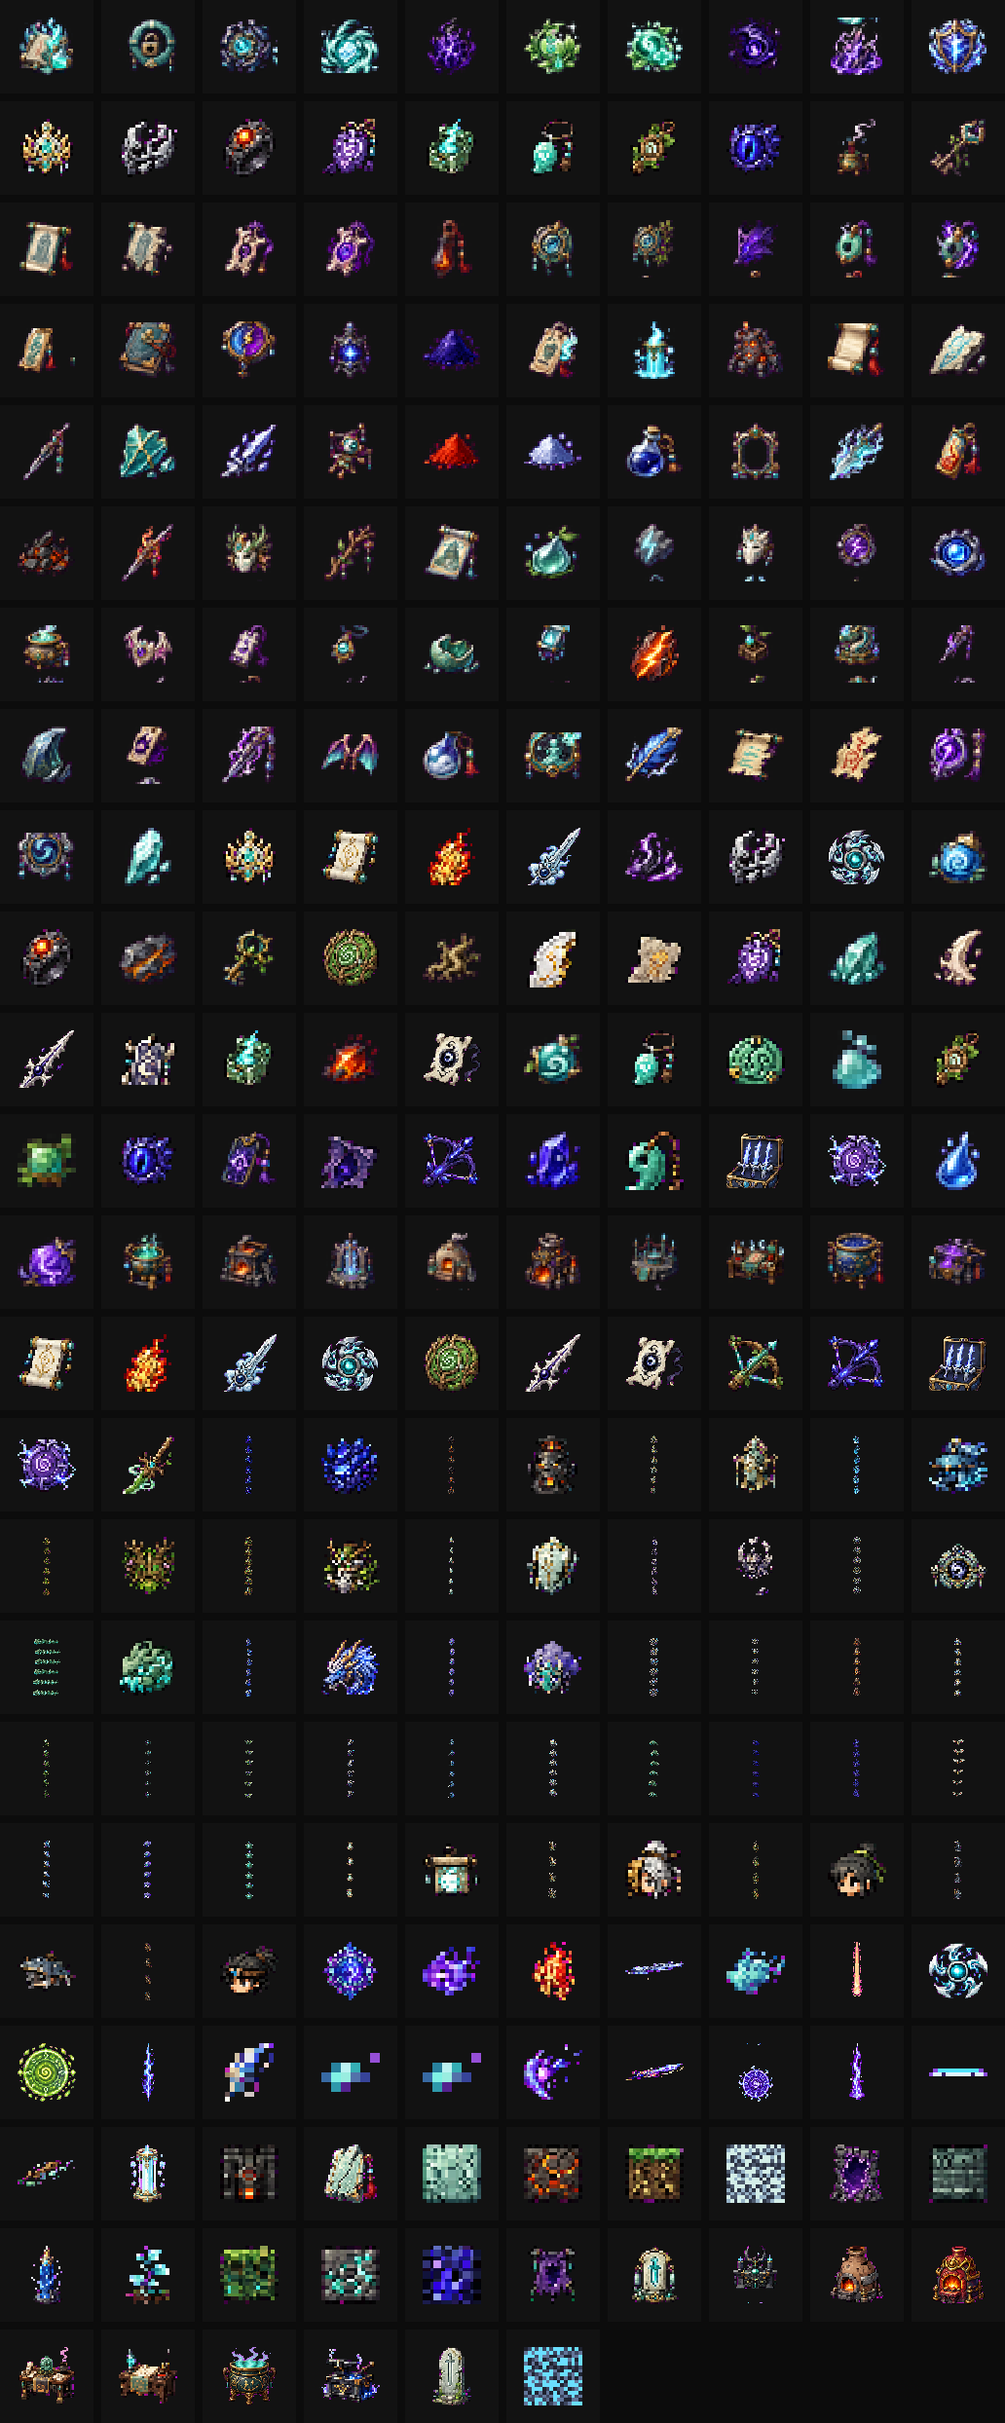
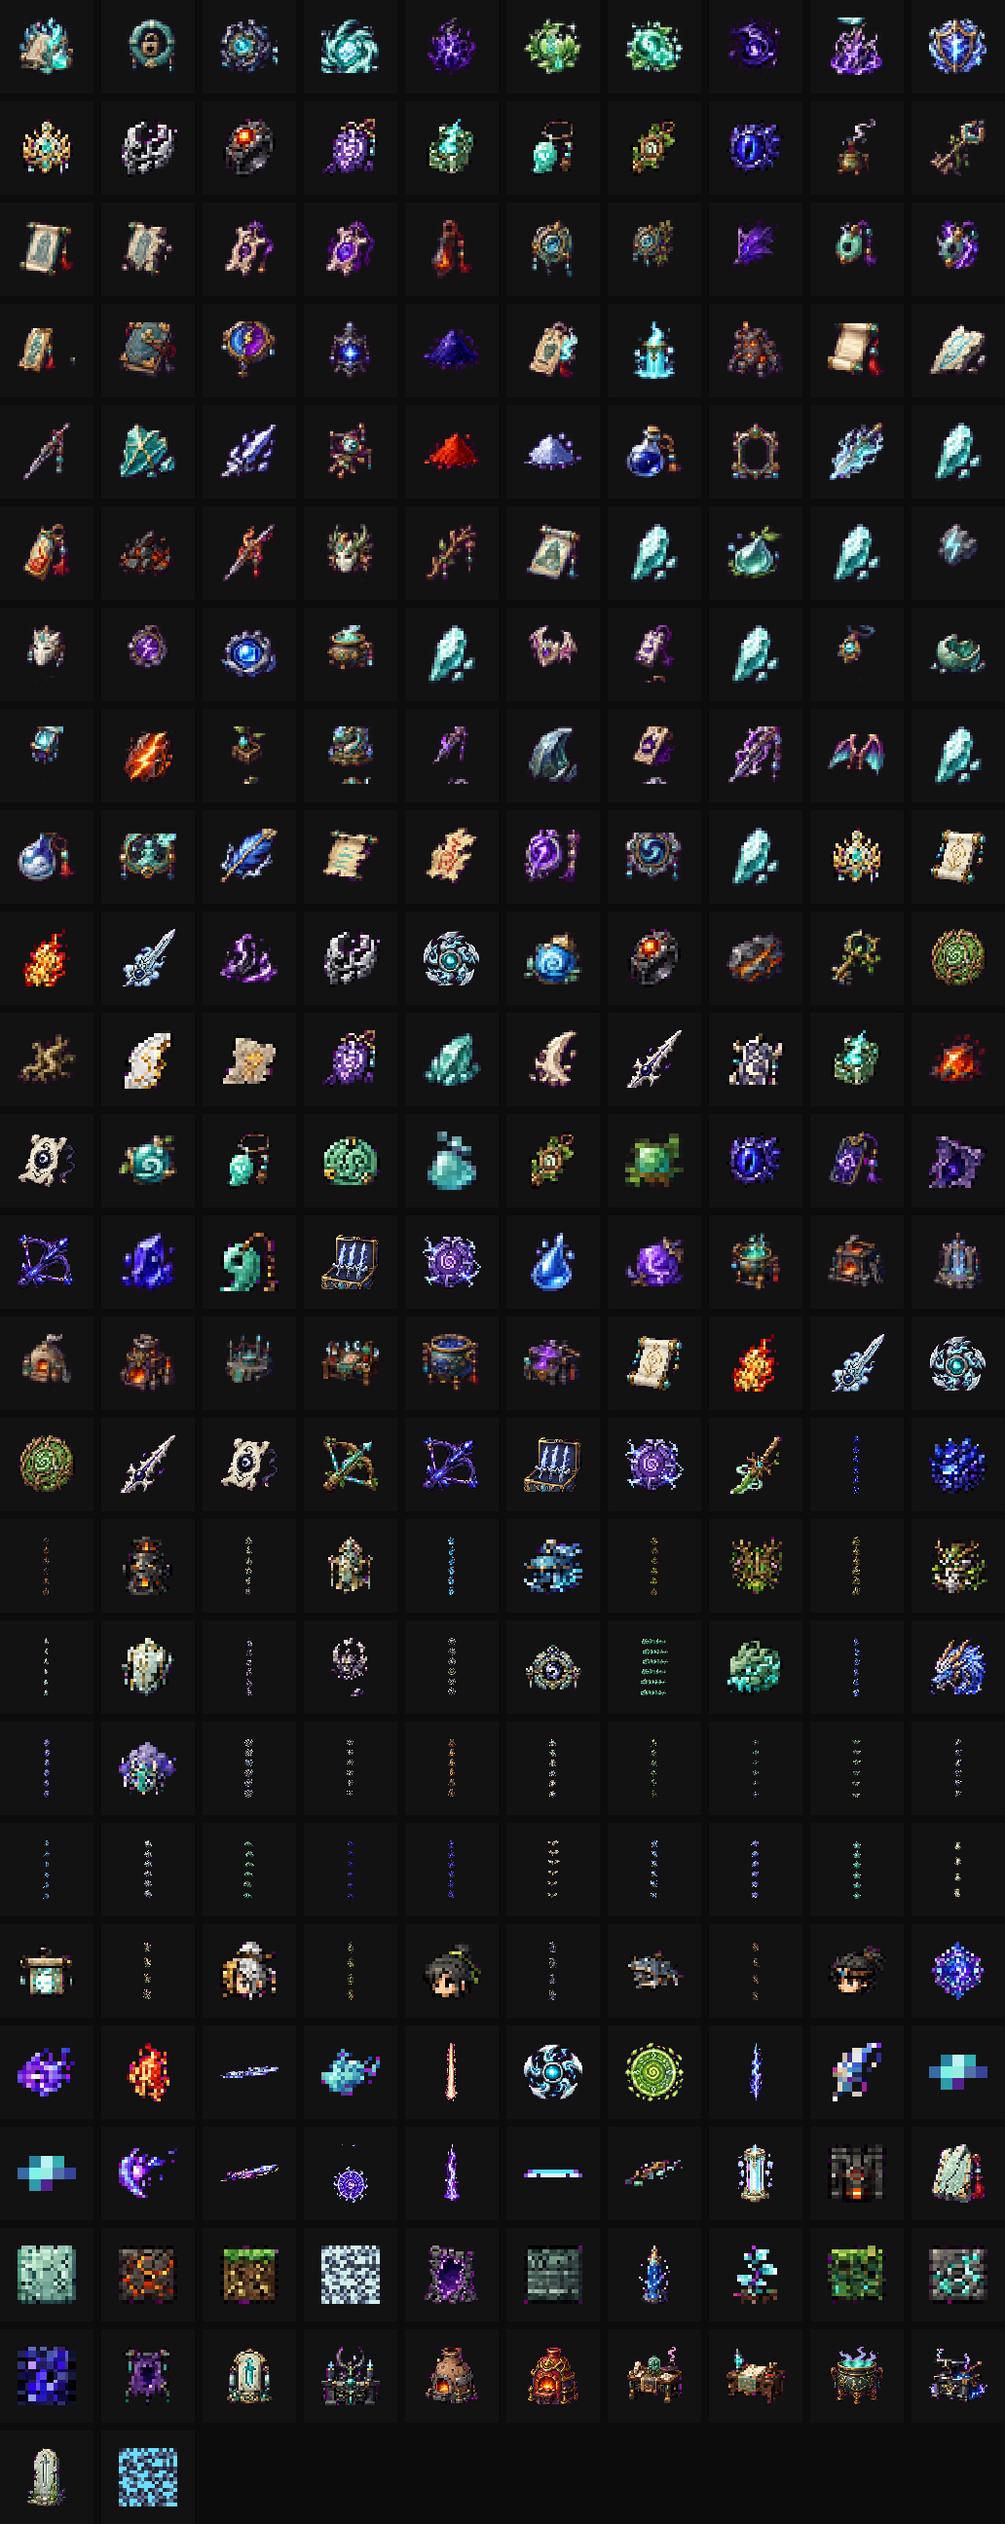
Remove cross-cell art fragments

diff --git a/Tools/verify_art_quality.py b/Tools/verify_art_quality.py
@@ -1,6 +1,7 @@
 from __future__ import annotations
 
 from pathlib import Path
+from collections import deque
 
 from PIL import Image
 
@@ -78,6 +79,56 @@ def nontransparent_colors(image: Image.Image) -> int:
     return len(colors)
 
 
+def alpha_components(image: Image.Image, threshold: int = 24) -> list[dict[str, object]]:
+    alpha = image.convert("RGBA").getchannel("A")
+    width, height = alpha.size
+    pixels = alpha.load()
+    seen: set[tuple[int, int]] = set()
+    components: list[dict[str, object]] = []
+    for y in range(height):
+        for x in range(width):
+            if pixels[x, y] <= threshold or (x, y) in seen:
+                continue
+            queue: deque[tuple[int, int]] = deque([(x, y)])
+            seen.add((x, y))
+            points: list[tuple[int, int]] = []
+            while queue:
+                current_x, current_y = queue.popleft()
+                points.append((current_x, current_y))
+                for next_x in range(current_x - 1, current_x + 2):
+                    for next_y in range(current_y - 1, current_y + 2):
+                        if next_x < 0 or next_y < 0 or next_x >= width or next_y >= height:
+                            continue
+                        if (next_x, next_y) in seen or pixels[next_x, next_y] <= threshold:
+                            continue
+                        seen.add((next_x, next_y))
+                        queue.append((next_x, next_y))
+            xs = [point[0] for point in points]
+            ys = [point[1] for point in points]
+            components.append({"pixels": len(points), "bbox": (min(xs), min(ys), max(xs) + 1, max(ys) + 1)})
+    return sorted(components, key=lambda component: int(component["pixels"]), reverse=True)
+
+
+def suspect_stray_components(image: Image.Image) -> list[dict[str, object]]:
+    components = alpha_components(image)
+    if len(components) <= 1:
+        return []
+    main_pixels = int(components[0]["pixels"])
+    width, height = image.size
+    suspects: list[dict[str, object]] = []
+    for component in components[1:]:
+        left, top, right, bottom = component["bbox"]  # type: ignore[misc]
+        box_width = right - left
+        box_height = bottom - top
+        pixels = int(component["pixels"])
+        near_top_or_bottom = top <= 3 or height - bottom <= 3
+        tiny_relative_to_main = pixels <= max(12, main_pixels * 0.08)
+        sliver_like = box_width <= 12 and box_height <= 4
+        if near_top_or_bottom and tiny_relative_to_main and sliver_like:
+            suspects.append(component)
+    return suspects
+
+
 def assert_safe_edges(path: Path, image: Image.Image, failures: list[str]) -> None:
     item = rel(path)
     margin = required_margin(path, image)
@@ -112,6 +163,15 @@ def assert_color_depth(path: Path, image: Image.Image, failures: list[str]) -> N
         failures.append(f"{item}: too few visible colors ({count} < {minimum}); likely placeholder-like")
 
 
+def assert_no_stray_components(path: Path, image: Image.Image, failures: list[str]) -> None:
+    item = rel(path)
+    if item in TILEABLE_PREFIXES:
+        return
+    suspects = suspect_stray_components(image)
+    if suspects:
+        failures.append(f"{item}: suspected cross-cell fragments: {suspects}")
+
+
 def main() -> None:
     failures: list[str] = []
     checked = 0
@@ -120,6 +180,7 @@ def main() -> None:
         checked += 1
         assert_safe_edges(path, image, failures)
         assert_color_depth(path, image, failures)
+        assert_no_stray_components(path, image, failures)
     if failures:
         print("Art quality verification failed:")
         for failure in failures:

diff --git a/Tools/clean_art_fragments.py b/Tools/clean_art_fragments.py
@@ -1,0 +1,48 @@
+from __future__ import annotations
+
+from pathlib import Path
+
+from PIL import Image
+
+from verify_art_quality import ROOT, alpha_components, png_paths, rel, suspect_stray_components
+
+
+def erase_component(image: Image.Image, bbox: tuple[int, int, int, int]) -> None:
+    pixels = image.load()
+    left, top, right, bottom = bbox
+    for y in range(top, bottom):
+        for x in range(left, right):
+            pixels[x, y] = (0, 0, 0, 0)
+
+
+def clean_file(path: Path) -> int:
+    image = Image.open(path).convert("RGBA")
+    suspects = suspect_stray_components(image)
+    if not suspects:
+        return 0
+    components = alpha_components(image)
+    removed = 0
+    for suspect in suspects:
+        bbox = suspect["bbox"]
+        if bbox == components[0]["bbox"]:
+            continue
+        erase_component(image, bbox)  # type: ignore[arg-type]
+        removed += 1
+    if removed:
+        image.save(path)
+    return removed
+
+
+def main() -> None:
+    cleaned: list[tuple[str, int]] = []
+    for path in png_paths():
+        removed = clean_file(path)
+        if removed:
+            cleaned.append((rel(path), removed))
+    print({"cleaned_files": len(cleaned), "removed_components": sum(count for _, count in cleaned)})
+    for item, count in cleaned:
+        print(f"{item}: {count}")
+
+
+if __name__ == "__main__":
+    main()

diff --git a/Wiki/Art_Gallery.md b/Wiki/Art_Gallery.md
@@ -292,20 +292,25 @@
 | <img src="../Content/Items/HandGenerated/DarkBlueSpiritFluid.png" alt="Dark Blue Spirit Fluid" width="48"> | Dark Blue Spirit Fluid | `item icon` | 32x32 | - | 暗蓝灵液：星渊流体材料，深蓝瓶滴与冷白高光。 | `Content/Items/HandGenerated/DarkBlueSpiritFluid.png` |
 | <img src="../Content/Items/HandGenerated/EndgameRouteFrame.png" alt="Endgame Route Frame" width="48"> | Endgame Route Frame | `item icon` | 32x32 | - | Hand Generated Item 资源：透明背景、强轮廓、有限色板，遵循 ART_ASSET_GENERATION_PLAN.md。 | `Content/Items/HandGenerated/EndgameRouteFrame.png` |
 | <img src="../Content/Items/HandGenerated/FormlessSwordSoulCostume.png" alt="Formless Sword Soul Costume" width="48"> | Formless Sword Soul Costume | `item icon` | 32x32 | - | Hand Generated Item 资源：透明背景、强轮廓、有限色板，遵循 ART_ASSET_GENERATION_PLAN.md。 | `Content/Items/HandGenerated/FormlessSwordSoulCostume.png` |
+| <img src="../Content/Items/HandGenerated/FoundationSeal.png" alt="Foundation Seal" width="48"> | Foundation Seal | `item icon` | 24x24 | - | Hand Generated Item 资源：透明背景、强轮廓、有限色板，遵循 ART_ASSET_GENERATION_PLAN.md。 | `Content/Items/HandGenerated/FoundationSeal.png` |
 | <img src="../Content/Items/HandGenerated/FurnaceAshSpiritContract.png" alt="Furnace Ash Spirit Contract" width="48"> | Furnace Ash Spirit Contract | `item icon` | 32x32 | - | Hand Generated Item 资源：透明背景、强轮廓、有限色板，遵循 ART_ASSET_GENERATION_PLAN.md。 | `Content/Items/HandGenerated/FurnaceAshSpiritContract.png` |
 | <img src="../Content/Items/HandGenerated/FurnaceCharcoal.png" alt="Furnace Charcoal" width="48"> | Furnace Charcoal | `item icon` | 32x32 | - | 炉炭：沉炉矿脉余烬材料，黑灰炭块带暗红火点。 | `Content/Items/HandGenerated/FurnaceCharcoal.png` |
 | <img src="../Content/Items/HandGenerated/FurnaceInscriptionNeedle.png" alt="Furnace Inscription Needle" width="48"> | Furnace Inscription Needle | `item icon` | 32x32 | - | Hand Generated Item 资源：透明背景、强轮廓、有限色板，遵循 ART_ASSET_GENERATION_PLAN.md。 | `Content/Items/HandGenerated/FurnaceInscriptionNeedle.png` |
 | <img src="../Content/Items/HandGenerated/GardenWardenMask.png" alt="Garden Warden Mask" width="48"> | Garden Warden Mask | `item icon` | 32x32 | - | Hand Generated Item 资源：透明背景、强轮廓、有限色板，遵循 ART_ASSET_GENERATION_PLAN.md。 | `Content/Items/HandGenerated/GardenWardenMask.png` |
 | <img src="../Content/Items/HandGenerated/GreenwoodInscriptionNeedle.png" alt="Greenwood Inscription Needle" width="48"> | Greenwood Inscription Needle | `item icon` | 32x32 | - | Hand Generated Item 资源：透明背景、强轮廓、有限色板，遵循 ART_ASSET_GENERATION_PLAN.md。 | `Content/Items/HandGenerated/GreenwoodInscriptionNeedle.png` |
 | <img src="../Content/Items/HandGenerated/HeavenDaoRouteHint.png" alt="Heaven Dao Route Hint" width="48"> | Heaven Dao Route Hint | `item icon` | 32x32 | - | Hand Generated Item 资源：透明背景、强轮廓、有限色板，遵循 ART_ASSET_GENERATION_PLAN.md。 | `Content/Items/HandGenerated/HeavenDaoRouteHint.png` |
+| <img src="../Content/Items/HandGenerated/HeavenTabletSeal.png" alt="Heaven Tablet Seal" width="48"> | Heaven Tablet Seal | `item icon` | 24x24 | - | Hand Generated Item 资源：透明背景、强轮廓、有限色板，遵循 ART_ASSET_GENERATION_PLAN.md。 | `Content/Items/HandGenerated/HeavenTabletSeal.png` |
 | <img src="../Content/Items/HandGenerated/HerbDew.png" alt="Herb Dew" width="48"> | Herb Dew | `item icon` | 32x32 | - | 药露：药园生机凝露，青绿水滴与草木高光。 | `Content/Items/HandGenerated/HerbDew.png` |
+| <img src="../Content/Items/HandGenerated/ImperialDecreeItem.png" alt="Imperial Decree Item" width="48"> | Imperial Decree Item | `item icon` | 24x24 | - | Hand Generated Item 资源：透明背景、强轮廓、有限色板，遵循 ART_ASSET_GENERATION_PLAN.md。 | `Content/Items/HandGenerated/ImperialDecreeItem.png` |
 | <img src="../Content/Items/HandGenerated/InscriptionRemovalStone.png" alt="Inscription Removal Stone" width="48"> | Inscription Removal Stone | `item icon` | 32x32 | - | Hand Generated Item 资源：透明背景、强轮廓、有限色板，遵循 ART_ASSET_GENERATION_PLAN.md。 | `Content/Items/HandGenerated/InscriptionRemovalStone.png` |
 | <img src="../Content/Items/HandGenerated/InspectorMask.png" alt="Inspector Mask" width="48"> | Inspector Mask | `item icon` | 32x32 | - | Hand Generated Item 资源：透明背景、强轮廓、有限色板，遵循 ART_ASSET_GENERATION_PLAN.md。 | `Content/Items/HandGenerated/InspectorMask.png` |
 | <img src="../Content/Items/HandGenerated/LightningAvoidanceRune.png" alt="Lightning Avoidance Rune" width="48"> | Lightning Avoidance Rune | `item icon` | 32x32 | - | Hand Generated Item 资源：透明背景、强轮廓、有限色板，遵循 ART_ASSET_GENERATION_PLAN.md。 | `Content/Items/HandGenerated/LightningAvoidanceRune.png` |
 | <img src="../Content/Items/HandGenerated/LowGradeSpiritCore.png" alt="Low Grade Spirit Core" width="48"> | Low Grade Spirit Core | `item icon` | 32x32 | - | 低阶灵核：灵脉早期核心，青玉内光。 | `Content/Items/HandGenerated/LowGradeSpiritCore.png` |
 | <img src="../Content/Items/HandGenerated/MedicineKingCauldronDecoration.png" alt="Medicine King Cauldron Decoration" width="48"> | Medicine King Cauldron Decoration | `item icon` | 32x32 | - | Hand Generated Item 资源：透明背景、强轮廓、有限色板，遵循 ART_ASSET_GENERATION_PLAN.md。 | `Content/Items/HandGenerated/MedicineKingCauldronDecoration.png` |
+| <img src="../Content/Items/HandGenerated/MedicineKingWoodHeart.png" alt="Medicine King Wood Heart" width="48"> | Medicine King Wood Heart | `item icon` | 24x24 | - | Hand Generated Item 资源：透明背景、强轮廓、有限色板，遵循 ART_ASSET_GENERATION_PLAN.md。 | `Content/Items/HandGenerated/MedicineKingWoodHeart.png` |
 | <img src="../Content/Items/HandGenerated/MoonboneImmortalWingAccessory.png" alt="Moonbone Immortal Wing Accessory" width="48"> | Moonbone Immortal Wing Accessory | `item icon` | 32x32 | - | Hand Generated Item 资源：透明背景、强轮廓、有限色板，遵循 ART_ASSET_GENERATION_PLAN.md。 | `Content/Items/HandGenerated/MoonboneImmortalWingAccessory.png` |
 | <img src="../Content/Items/HandGenerated/NascentSoulCloneTalisman.png" alt="Nascent Soul Clone Talisman" width="48"> | Nascent Soul Clone Talisman | `item icon` | 32x32 | - | Hand Generated Item 资源：透明背景、强轮廓、有限色板，遵循 ART_ASSET_GENERATION_PLAN.md。 | `Content/Items/HandGenerated/NascentSoulCloneTalisman.png` |
+| <img src="../Content/Items/HandGenerated/RouteMaterial.png" alt="Route Material" width="48"> | Route Material | `item icon` | 24x24 | - | Hand Generated Item 资源：透明背景、强轮廓、有限色板，遵循 ART_ASSET_GENERATION_PLAN.md。 | `Content/Items/HandGenerated/RouteMaterial.png` |
 | <img src="../Content/Items/HandGenerated/SectTrialHint.png" alt="Sect Trial Hint" width="48"> | Sect Trial Hint | `item icon` | 32x32 | - | Hand Generated Item 资源：透明背景、强轮廓、有限色板，遵循 ART_ASSET_GENERATION_PLAN.md。 | `Content/Items/HandGenerated/SectTrialHint.png` |
 | <img src="../Content/Items/HandGenerated/ShatteredJadeShell.png" alt="Shattered Jade Shell" width="48"> | Shattered Jade Shell | `item icon` | 32x32 | - | 碎玉虫掉落物：玉壳断裂、深绿外轮廓，作为浅层灵脉材料。 | `Content/Items/HandGenerated/ShatteredJadeShell.png` |
 | <img src="../Content/Items/HandGenerated/SilentTabletDecoration.png" alt="Silent Tablet Decoration" width="48"> | Silent Tablet Decoration | `item icon` | 32x32 | - | Hand Generated Item 资源：透明背景、强轮廓、有限色板，遵循 ART_ASSET_GENERATION_PLAN.md。 | `Content/Items/HandGenerated/SilentTabletDecoration.png` |
@@ -317,6 +322,7 @@
 | <img src="../Content/Items/HandGenerated/SpiritVeinWyrmTrophy.png" alt="Spirit Vein Wyrm Trophy" width="48"> | Spirit Vein Wyrm Trophy | `item icon` | 32x32 | - | Hand Generated Item 资源：透明背景、强轮廓、有限色板，遵循 ART_ASSET_GENERATION_PLAN.md。 | `Content/Items/HandGenerated/SpiritVeinWyrmTrophy.png` |
 | <img src="../Content/Items/HandGenerated/StarAbyssInscriptionNeedle.png" alt="Star Abyss Inscription Needle" width="48"> | Star Abyss Inscription Needle | `item icon` | 32x32 | - | Hand Generated Item 资源：透明背景、强轮廓、有限色板，遵循 ART_ASSET_GENERATION_PLAN.md。 | `Content/Items/HandGenerated/StarAbyssInscriptionNeedle.png` |
 | <img src="../Content/Items/HandGenerated/StarAbyssLarvaContract.png" alt="Star Abyss Larva Contract" width="48"> | Star Abyss Larva Contract | `item icon` | 32x32 | - | Hand Generated Item 资源：透明背景、强轮廓、有限色板，遵循 ART_ASSET_GENERATION_PLAN.md。 | `Content/Items/HandGenerated/StarAbyssLarvaContract.png` |
+| <img src="../Content/Items/HandGenerated/StarCalamityCore.png" alt="Star Calamity Core" width="48"> | Star Calamity Core | `item icon` | 24x24 | - | Hand Generated Item 资源：透明背景、强轮廓、有限色板，遵循 ART_ASSET_GENERATION_PLAN.md。 | `Content/Items/HandGenerated/StarCalamityCore.png` |
 | <img src="../Content/Items/HandGenerated/ThunderInscriptionNeedle.png" alt="Thunder Inscription Needle" width="48"> | Thunder Inscription Needle | `item icon` | 32x32 | - | Hand Generated Item 资源：透明背景、强轮廓、有限色板，遵循 ART_ASSET_GENERATION_PLAN.md。 | `Content/Items/HandGenerated/ThunderInscriptionNeedle.png` |
 | <img src="../Content/Items/HandGenerated/ThunderMarshJiaoWing.png" alt="Thunder Marsh Jiao Wing" width="48"> | Thunder Marsh Jiao Wing | `item icon` | 32x32 | - | Hand Generated Item 资源：透明背景、强轮廓、有限色板，遵循 ART_ASSET_GENERATION_PLAN.md。 | `Content/Items/HandGenerated/ThunderMarshJiaoWing.png` |
 | <img src="../Content/Items/HandGenerated/ThunderPatternFeather.png" alt="Thunder Pattern Feather" width="48"> | Thunder Pattern Feather | `item icon` | 32x32 | - | 雷纹羽：雷纹鹰羽毛，蓝紫雷纹沿羽轴延伸。 | `Content/Items/HandGenerated/ThunderPatternFeather.png` |

diff --git a/Docs/ART_ASSET_GENERATION_PLAN.md b/Docs/ART_ASSET_GENERATION_PLAN.md
@@ -88,6 +88,8 @@ Docs/
 从 2026-06-13 起，所有新生成或刷新资源必须通过以下规则：
 
 - 图片模型母版必须为单个资源或规则网格 atlas；每个资源在母版格子内至少保留约 20% 空白边距，任何发光、符文、吊坠、卷轴轴头、武器尖端都不得触碰格子边界。
+- 批量 atlas 必须有明确网格隔离：相邻资源之间必须有纯色背景 gutter，生成提示中要要求“每个 cell 只包含一个完整资源，cell 内资源不得越界，不得把邻格素材的一部分放入本格”。如果模型输出无法保持隔离，必须改为单资源生成或更少格数生成。
+- 切 atlas 时不得只相信固定格坐标。每个 cell 切出后必须做连通域检查：主体之外靠近顶部/底部的小条、小点、残影视为跨格污染，必须清除或重新生成；不能把邻格顶部/底部残片当作合法粒子保留。
 - 后处理允许裁掉母版色键背景，但导出到 `Content/` 的非平铺资源必须重新放回目标画布，并至少保留 1px 透明安全边；Buff、物品、弹幕、NPC/Boss、非平铺 object tile 和制作台 tile 都属于非平铺资源。
 - “没有触边”不等于合格。1px 透明边在 Wiki、contact sheet、浏览器缩放或游戏 UI 混合时仍会产生视觉裁切；最终 `Content/` 贴图必须保留可视安全边：32x32 Buff/物品图标至少 3px，24x24 或更小图标至少 2px，制作台/object tile 至少 2px，普通弹幕至少 2px，极薄 16x4 类功能弹幕至少 1px。
 - 16x16 地形块、墙、矿石等明确需要无缝平铺的资源可以触碰画布边缘，但必须在 spec 或脚本中标记为 tileable；它们不能用“透明安全边”破坏平铺。
@@ -96,7 +98,7 @@ Docs/
 - 禁止再提交“圆形底板 + 单一符号”“纯色圆/方块/横线”“几何 UI 按钮”“单色纸片”等占位式低质量素材，除非该文件在代码中明确是不可见碰撞/调试辅助贴图。
 - 非平铺资源的有效非透明颜色数量应体现材质和光影层次；如果一个最终资源只有个位数颜色，必须人工说明其功能原因，或重新生成/重绘。
 - 审阅时必须同时检查 `Content/` 真实 PNG、`Assets/Final/contact_sheet_v01.png` 总览和 `Wiki/Art_Gallery.md` 页面展示，三者都不能出现截断或占位感。
-- 每轮素材刷新后必须运行 `python Tools\enforce_art_padding.py` 和 `python Tools\verify_art_quality.py`；前者按规则收缩非平铺资源并保留画布尺寸，后者把可视安全边和低颜色占位风险作为阻断项。
+- 每轮素材刷新后必须运行 `python Tools\clean_art_fragments.py`、`python Tools\enforce_art_padding.py` 和 `python Tools\verify_art_quality.py`；清理工具处理跨格污染，padding 工具按规则收缩非平铺资源并保留画布尺寸，审计工具把残片、可视安全边和低颜色占位风险作为阻断项。
 
 ## 4. 资产类型规则
 
